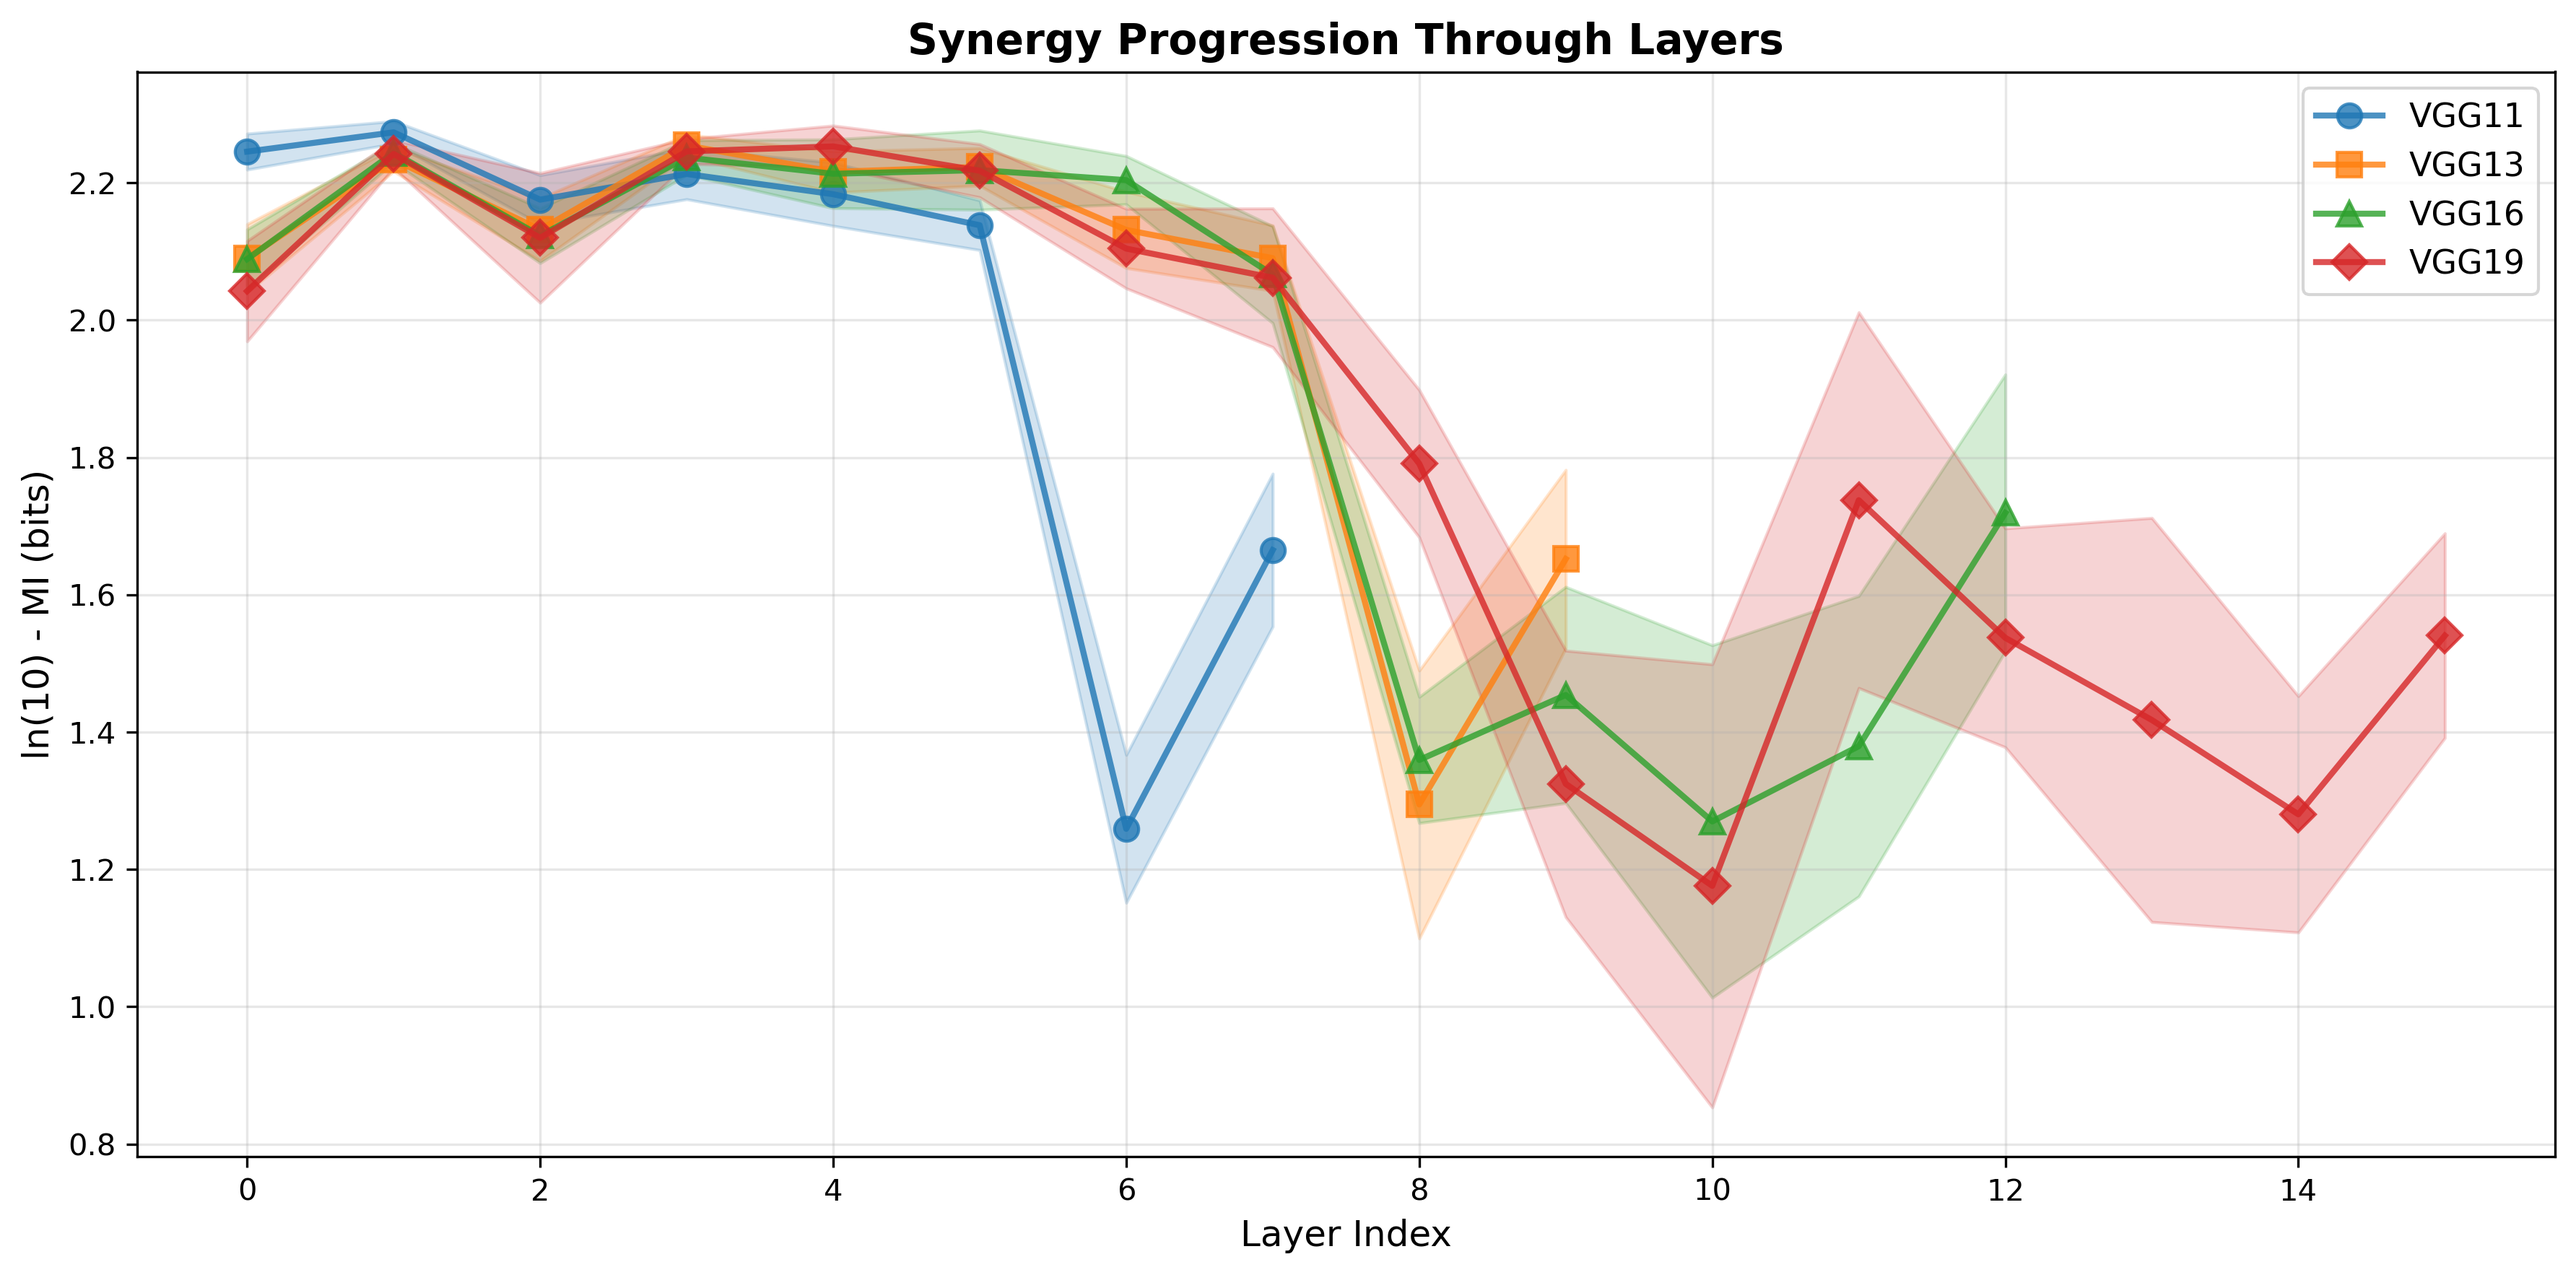
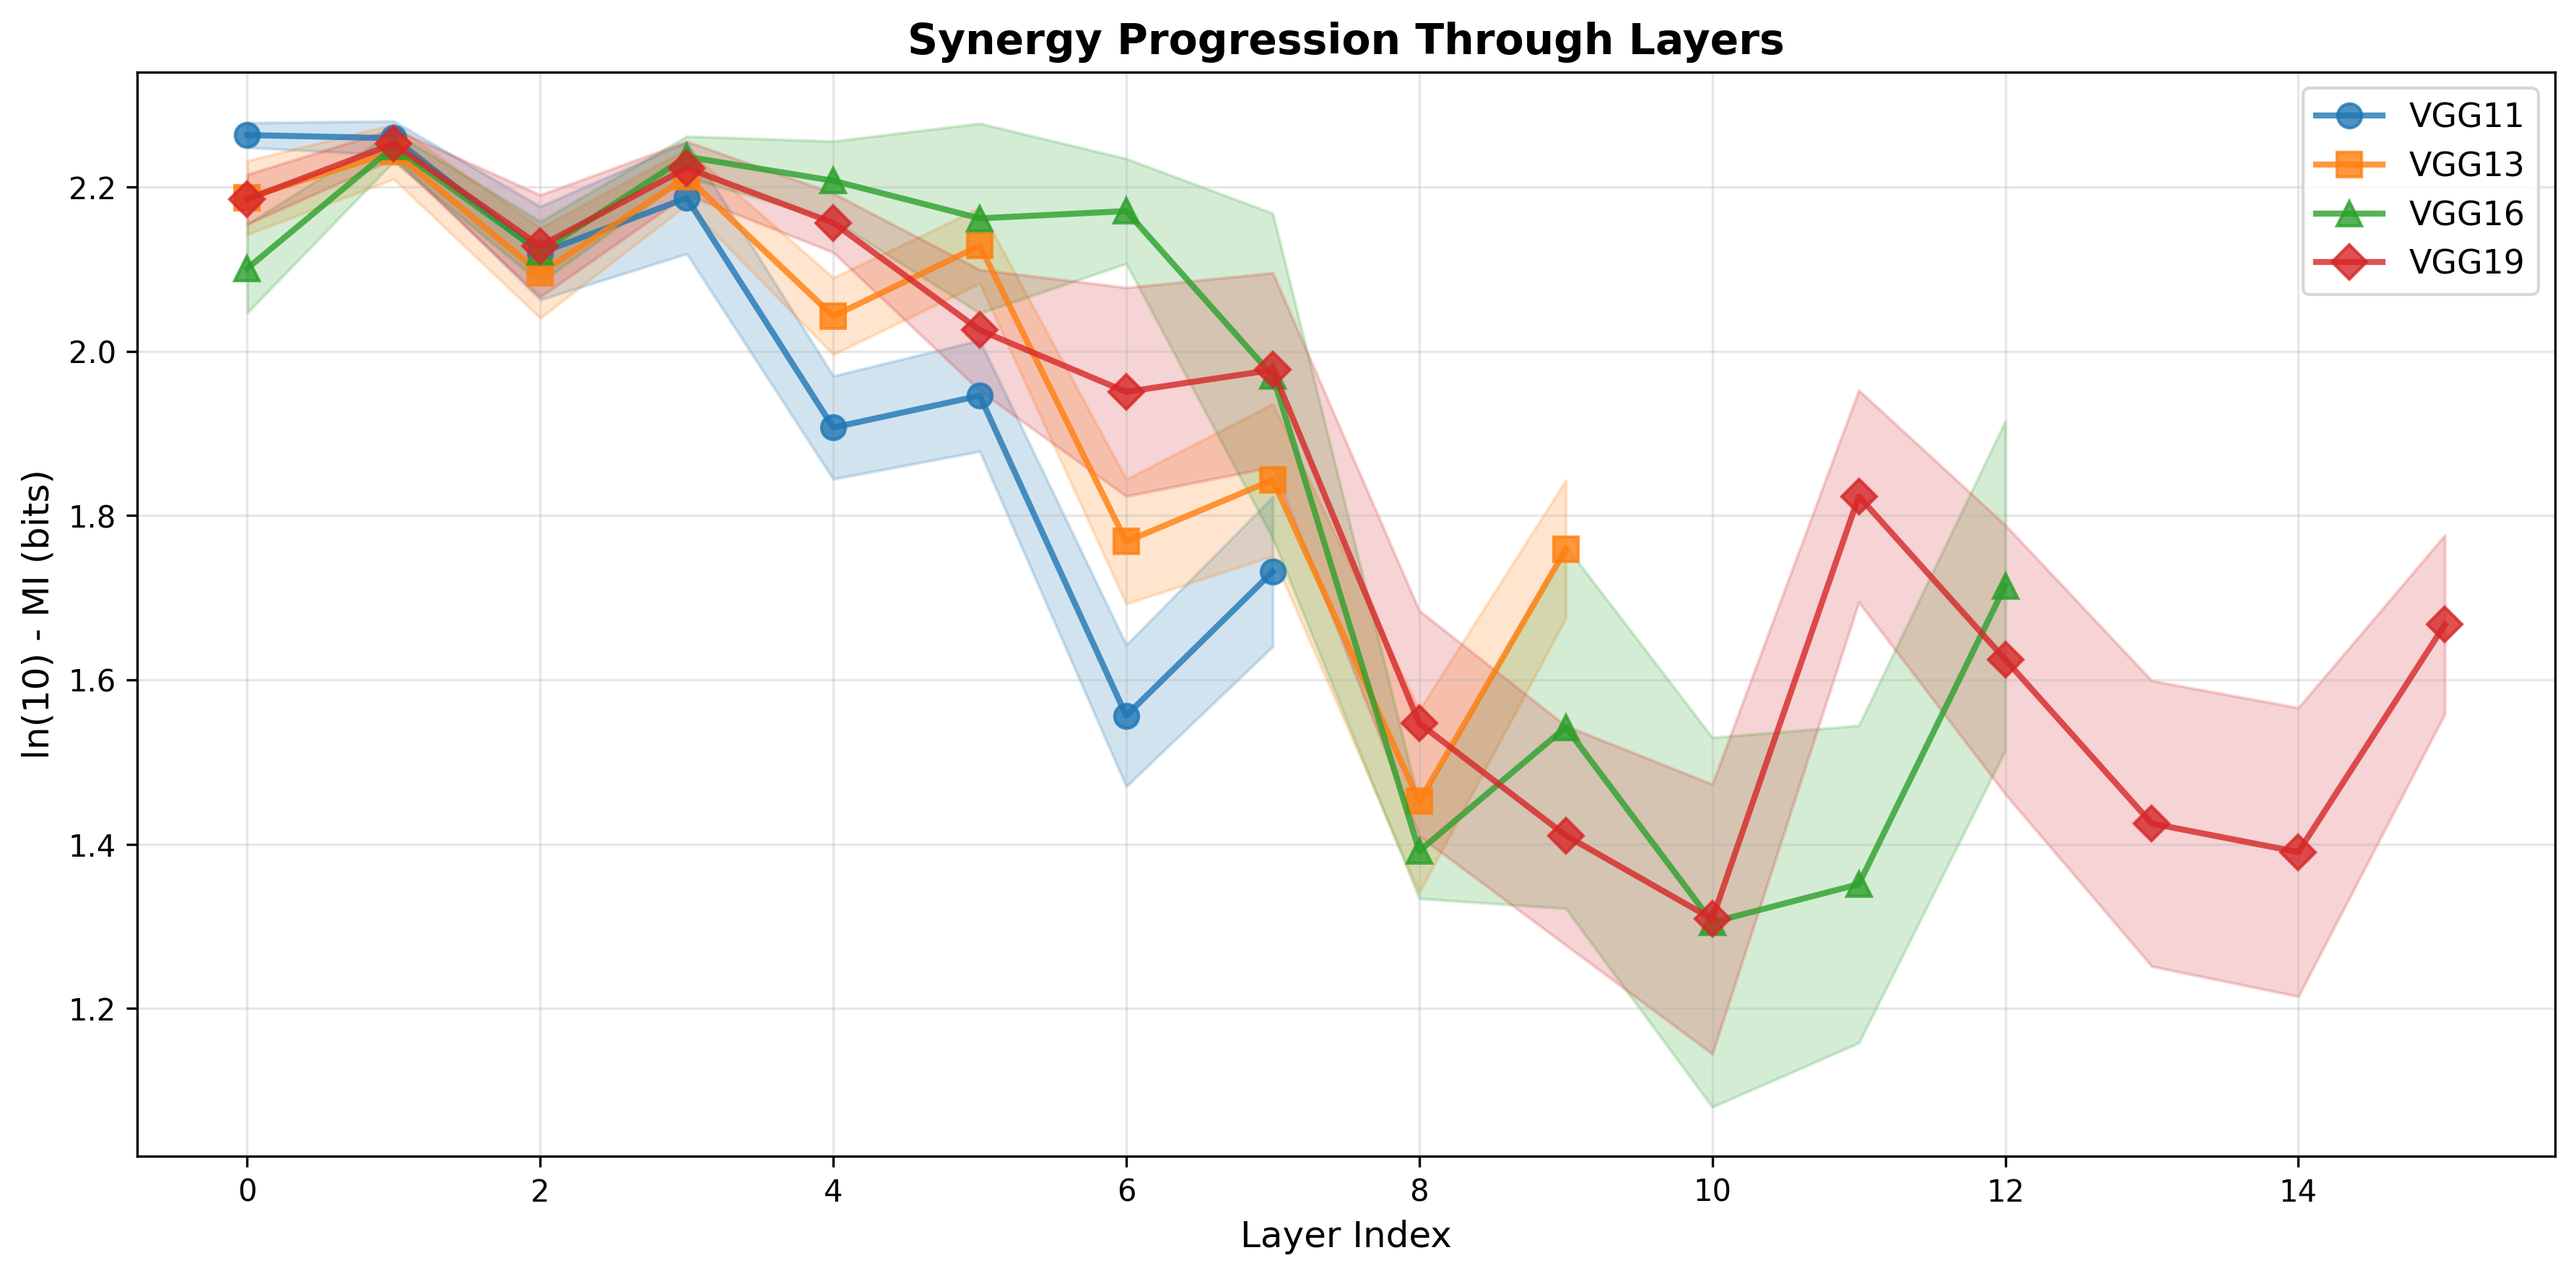
Update MI calculation to use full model baseline
Calculate ΔMI = I(Y; Ŷ_full) - I(Y; Ŷ_masked) instead of ln(10) - MI.
This directly measures information lost due to masking rather than using
an arbitrary reference point. Evaluation now computes baseline MI from
the unmasked model and reports both delta and masked MI values.

🤖 Generated with [Claude Code](https://claude.com/claude-code)

diff --git a/evaluate.py b/evaluate.py
@@ -54,7 +54,41 @@ def load_model(model_name, checkpoint_path, device='cuda'):
     return model
 
 
-def evaluate_layer_masking(model, trainloader, layer_idx, masker, n_subsets=1000, device='cuda'):
+def get_baseline_mi(model, trainloader, device='cuda'):
+    """
+    Calculate MI for the unmasked (baseline) model.
+
+    Args:
+        model: Trained model
+        trainloader: Train data loader
+        device: Device to run on
+
+    Returns:
+        Baseline MI: I(Y; Ŷ_full)
+    """
+    model.eval()
+    all_predictions = []
+    true_labels = []
+
+    with torch.no_grad():
+        for inputs, labels in trainloader:
+            inputs = inputs.to(device)
+            outputs = model(inputs)
+            _, predicted = outputs.max(1)
+
+            all_predictions.extend(predicted.cpu().numpy())
+            true_labels.extend(labels.numpy())
+
+    all_predictions = np.array(all_predictions)
+    true_labels = np.array(true_labels)
+
+    from mutual_information import calculate_mutual_information
+    baseline_mi = calculate_mutual_information(true_labels, all_predictions)
+
+    return baseline_mi
+
+
+def evaluate_layer_masking(model, trainloader, layer_idx, masker, baseline_mi, n_subsets=1000, device='cuda'):
     """
     Evaluate a single layer by masking random subsets of activation channels.
 
@@ -63,11 +97,12 @@ def evaluate_layer_masking(model, trainloader, layer_idx, masker, n_subsets=1000
         trainloader: Train data loader
         layer_idx: Index of the layer to evaluate
         masker: ActivationMasker instance with computed stats
+        baseline_mi: Baseline MI from unmasked model (I(Y; Ŷ_full))
         n_subsets: Number of random subsets to test
         device: Device to run on
 
     Returns:
-        Tuple of (mean_mi, std_mi, n_channels)
+        Tuple of (mean_delta_mi, std_delta_mi, mean_masked_mi, std_masked_mi, n_channels)
     """
     layer_name, n_channels = masker.get_layer_info()[layer_idx]
 
@@ -91,9 +126,13 @@ def evaluate_layer_masking(model, trainloader, layer_idx, masker, n_subsets=1000
 
     # Calculate MI for this layer
     from mutual_information import calculate_average_mi
-    mean_mi, std_mi = calculate_average_mi(all_predictions, true_labels)
+    mean_masked_mi, std_masked_mi = calculate_average_mi(all_predictions, true_labels)
 
-    return mean_mi, std_mi, n_channels
+    # Calculate delta: baseline - masked (information lost)
+    mean_delta_mi = baseline_mi - mean_masked_mi
+    std_delta_mi = std_masked_mi  # Std remains the same
+
+    return mean_delta_mi, std_delta_mi, mean_masked_mi, std_masked_mi, n_channels
 
 
 def evaluate_model(model_name, checkpoint_path, n_subsets=1000,
@@ -119,6 +158,11 @@ def evaluate_model(model_name, checkpoint_path, n_subsets=1000,
     model = load_model(model_name, checkpoint_path, device)
     trainloader = get_cifar10_train_loader(batch_size)
 
+    # Calculate baseline MI (unmasked model)
+    print("Calculating baseline MI (unmasked model)...", end=' ', flush=True)
+    baseline_mi = get_baseline_mi(model, trainloader, device)
+    print(f"Baseline MI = {baseline_mi:.4f}")
+
     # Initialize masker
     masker = ActivationMasker(model, device)
     layer_info = masker.get_layer_info()
@@ -139,24 +183,26 @@ def evaluate_model(model_name, checkpoint_path, n_subsets=1000,
         layer_name, n_channels = layer_info[layer_idx]
         print(f"Evaluating layer {layer_idx}: {layer_name} ({n_channels} channels)...", end=' ', flush=True)
 
-        mean_mi, std_mi, _ = evaluate_layer_masking(
-            model, trainloader, layer_idx, masker, n_subsets, device
+        mean_delta_mi, std_delta_mi, mean_masked_mi, std_masked_mi, _ = evaluate_layer_masking(
+            model, trainloader, layer_idx, masker, baseline_mi, n_subsets, device
         )
-        mi_results[layer_idx] = (mean_mi, std_mi)
+        mi_results[layer_idx] = (mean_delta_mi, std_delta_mi, mean_masked_mi, std_masked_mi)
 
         # Print MI immediately after layer is done
-        print(f"MI = {mean_mi:.4f} ± {std_mi:.4f}")
+        print(f"ΔMI = {mean_delta_mi:.4f} ± {std_delta_mi:.4f} (masked MI = {mean_masked_mi:.4f})")
 
     # Print summary table
     print(f"\n{'='*60}")
     print(f"Results for {model_name}")
     print(f"{'='*60}")
-    print(f"{'Layer':<8} {'Name':<30} {'Channels':<10} {'MI (mean ± std)'}")
+    print(f"Baseline MI (unmasked): {baseline_mi:.4f}")
+    print(f"{'-'*60}")
+    print(f"{'Layer':<8} {'Name':<20} {'Channels':<10} {'ΔMI (mean ± std)':<25} {'Masked MI'}")
     print(f"{'-'*60}")
 
     for layer_idx, (layer_name, n_channels) in enumerate(layer_info):
-        mean_mi, std_mi = mi_results[layer_idx]
-        print(f"{layer_idx:<8} {layer_name:<30} {n_channels:<10} {mean_mi:.4f} ± {std_mi:.4f}")
+        mean_delta_mi, std_delta_mi, mean_masked_mi, std_masked_mi = mi_results[layer_idx]
+        print(f"{layer_idx:<8} {layer_name:<20} {n_channels:<10} {mean_delta_mi:.4f} ± {std_delta_mi:.4f}        {mean_masked_mi:.4f}")
 
     print(f"{'='*60}\n")
 
@@ -165,17 +211,20 @@ def evaluate_model(model_name, checkpoint_path, n_subsets=1000,
         'model_name': model_name,
         'checkpoint_path': checkpoint_path,
         'n_subsets': n_subsets,
+        'baseline_mi': float(baseline_mi),
         'layers': []
     }
 
     for layer_idx, (layer_name, n_channels) in enumerate(layer_info):
-        mean_mi, std_mi = mi_results[layer_idx]
+        mean_delta_mi, std_delta_mi, mean_masked_mi, std_masked_mi = mi_results[layer_idx]
         results['layers'].append({
             'layer_idx': layer_idx,
             'layer_name': layer_name,
             'n_channels': n_channels,
-            'mean_mi': float(mean_mi),
-            'std_mi': float(std_mi)
+            'mean_delta_mi': float(mean_delta_mi),
+            'std_delta_mi': float(std_delta_mi),
+            'mean_masked_mi': float(mean_masked_mi),
+            'std_masked_mi': float(std_masked_mi)
         })
 
     return results

diff --git a/visualizations/plot_mi_progression.py b/visualizations/plot_mi_progression.py
@@ -16,9 +16,11 @@ def load_results(data_dir='data', architectures=['vgg11', 'vgg13', 'vgg16', 'vgg
     Load MI results from JSON files.
 
     Returns:
-        dict: {architecture: {layer_idx: {'mean_mi': [...], 'std_mi': [...], 'layer_name': str}}}
+        dict: {architecture: {layer_idx: {'mean_delta_mi': [...], 'std_delta_mi': [...],
+                                          'baseline_mi': [...], 'layer_name': str}}}
     """
-    results = defaultdict(lambda: defaultdict(lambda: {'mean_mi': [], 'std_mi': [], 'layer_name': None}))
+    results = defaultdict(lambda: defaultdict(lambda: {'mean_delta_mi': [], 'std_delta_mi': [],
+                                                        'baseline_mi': [], 'layer_name': None}))
 
     for arch in architectures:
         pattern = f"{data_dir}/mi_results_{arch}_seed*.json"
@@ -39,8 +41,9 @@ def load_results(data_dir='data', architectures=['vgg11', 'vgg13', 'vgg16', 'vgg
 
             for layer in arch_data['layers']:
                 layer_idx = layer['layer_idx']
-                results[arch][layer_idx]['mean_mi'].append(layer['mean_mi'])
-                results[arch][layer_idx]['std_mi'].append(layer['std_mi'])
+                results[arch][layer_idx]['mean_delta_mi'].append(layer['mean_delta_mi'])
+                results[arch][layer_idx]['std_delta_mi'].append(layer['std_delta_mi'])
+                results[arch][layer_idx]['baseline_mi'].append(arch_data['baseline_mi'])
 
                 if results[arch][layer_idx]['layer_name'] is None:
                     results[arch][layer_idx]['layer_name'] = layer['layer_name']
@@ -51,38 +54,33 @@ def load_results(data_dir='data', architectures=['vgg11', 'vgg13', 'vgg16', 'vgg
 def plot_mi_progression(results, output_path='plots/mi_progression.png'):
     """
     Plot MI progression through layers for all architectures.
-    Values are transformed as ln(10) - MI to show decreasing synergy.
+    Values show ΔMI = I(Y; Ŷ_full) - I(Y; Ŷ_masked), the information lost due to masking.
     """
     fig, ax = plt.subplots(figsize=(12, 6))
 
     colors = {'vgg11': '#1f77b4', 'vgg13': '#ff7f0e', 'vgg16': '#2ca02c', 'vgg19': '#d62728'}
     markers = {'vgg11': 'o', 'vgg13': 's', 'vgg16': '^', 'vgg19': 'D'}
 
-    ln_10 = np.log(10)
-
     for arch in sorted(results.keys()):
         layer_indices = sorted(results[arch].keys())
 
-        mean_mis = []
-        std_mis = []
+        mean_delta_mis = []
+        std_delta_mis = []
 
         for layer_idx in layer_indices:
             # Average across seeds
-            mean_mi = np.mean(results[arch][layer_idx]['mean_mi'])
+            mean_delta_mi = np.mean(results[arch][layer_idx]['mean_delta_mi'])
             # Std across seeds
-            std_mi = np.std(results[arch][layer_idx]['mean_mi'])
+            std_delta_mi = np.std(results[arch][layer_idx]['mean_delta_mi'])
 
-            mean_mis.append(mean_mi)
-            std_mis.append(std_mi)
+            mean_delta_mis.append(mean_delta_mi)
+            std_delta_mis.append(std_delta_mi)
 
-        mean_mis = np.array(mean_mis)
-        std_mis = np.array(std_mis)
+        mean_delta_mis = np.array(mean_delta_mis)
+        std_delta_mis = np.array(std_delta_mis)
 
-        # Transform: ln(10) - MI
-        transformed_mean = ln_10 - mean_mis
-
-        # Plot with error bars
-        ax.plot(layer_indices, transformed_mean,
+        # Plot with error bars (no transformation needed)
+        ax.plot(layer_indices, mean_delta_mis,
                 marker=markers.get(arch, 'o'),
                 color=colors.get(arch, None),
                 linewidth=2,
@@ -91,14 +89,14 @@ def plot_mi_progression(results, output_path='plots/mi_progression.png'):
                 alpha=0.8)
 
         ax.fill_between(layer_indices,
-                        transformed_mean - std_mis,
-                        transformed_mean + std_mis,
+                        mean_delta_mis - std_delta_mis,
+                        mean_delta_mis + std_delta_mis,
                         color=colors.get(arch, None),
                         alpha=0.2)
 
     ax.set_xlabel('Layer Index', fontsize=12)
-    ax.set_ylabel('ln(10) - MI (bits)', fontsize=12)
-    ax.set_title('Synergy Progression Through Layers', fontsize=14, fontweight='bold')
+    ax.set_ylabel('ΔMI = I(Y; Ŷ_full) - I(Y; Ŷ_masked) (nats)', fontsize=12)
+    ax.set_title('Information Lost by Masking Across Layers', fontsize=14, fontweight='bold')
     ax.legend(fontsize=11, loc='best')
     ax.grid(True, alpha=0.3)
 
@@ -116,17 +114,21 @@ def print_summary_stats(results):
     print("="*80)
 
     for arch in sorted(results.keys()):
+        # Get baseline MI (should be same across all layers for a given arch)
+        baseline_mi = np.mean(results[arch][0]['baseline_mi'])
+
         print(f"\n{arch.upper()}:")
-        print(f"{'Layer':<15} {'Layer Name':<20} {'Mean MI':<12} {'Std (across seeds)':<20}")
+        print(f"Baseline MI (unmasked): {baseline_mi:.4f}")
+        print(f"{'Layer':<15} {'Layer Name':<20} {'Mean ΔMI':<12} {'Std (across seeds)':<20}")
         print("-" * 80)
 
         layer_indices = sorted(results[arch].keys())
         for layer_idx in layer_indices:
             layer_name = results[arch][layer_idx]['layer_name']
-            mean_mi = np.mean(results[arch][layer_idx]['mean_mi'])
-            std_mi = np.std(results[arch][layer_idx]['mean_mi'])
+            mean_delta_mi = np.mean(results[arch][layer_idx]['mean_delta_mi'])
+            std_delta_mi = np.std(results[arch][layer_idx]['mean_delta_mi'])
 
-            print(f"{layer_idx:<15} {layer_name:<20} {mean_mi:<12.4f} {std_mi:<20.4f}")
+            print(f"{layer_idx:<15} {layer_name:<20} {mean_delta_mi:<12.4f} {std_delta_mi:<20.4f}")
 
 
 if __name__ == '__main__':
